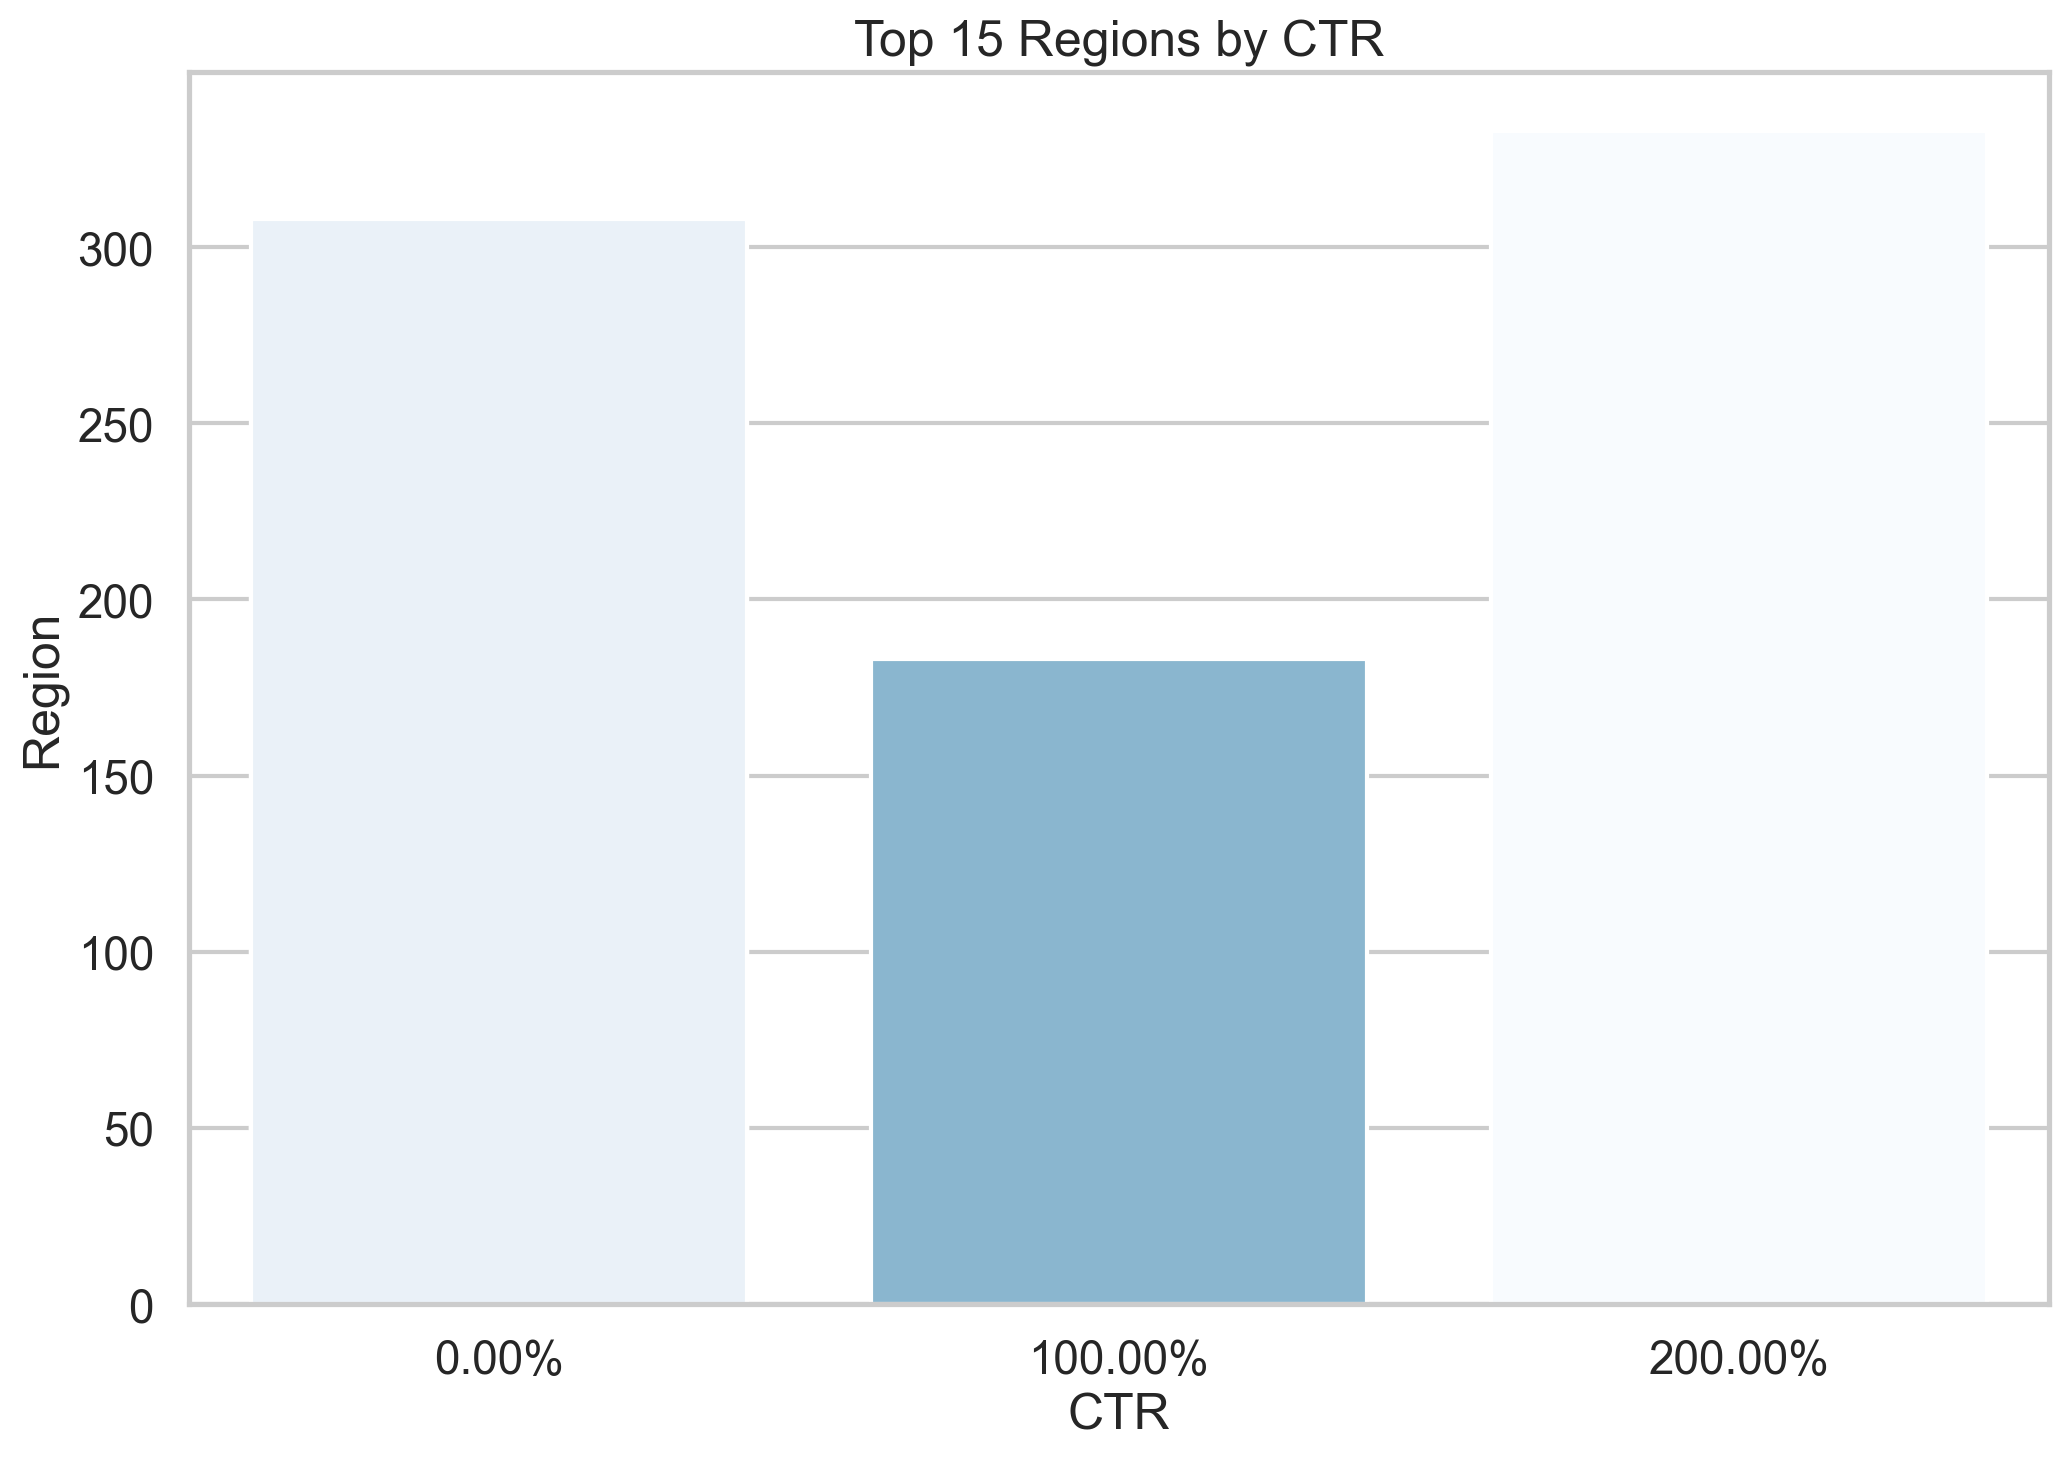
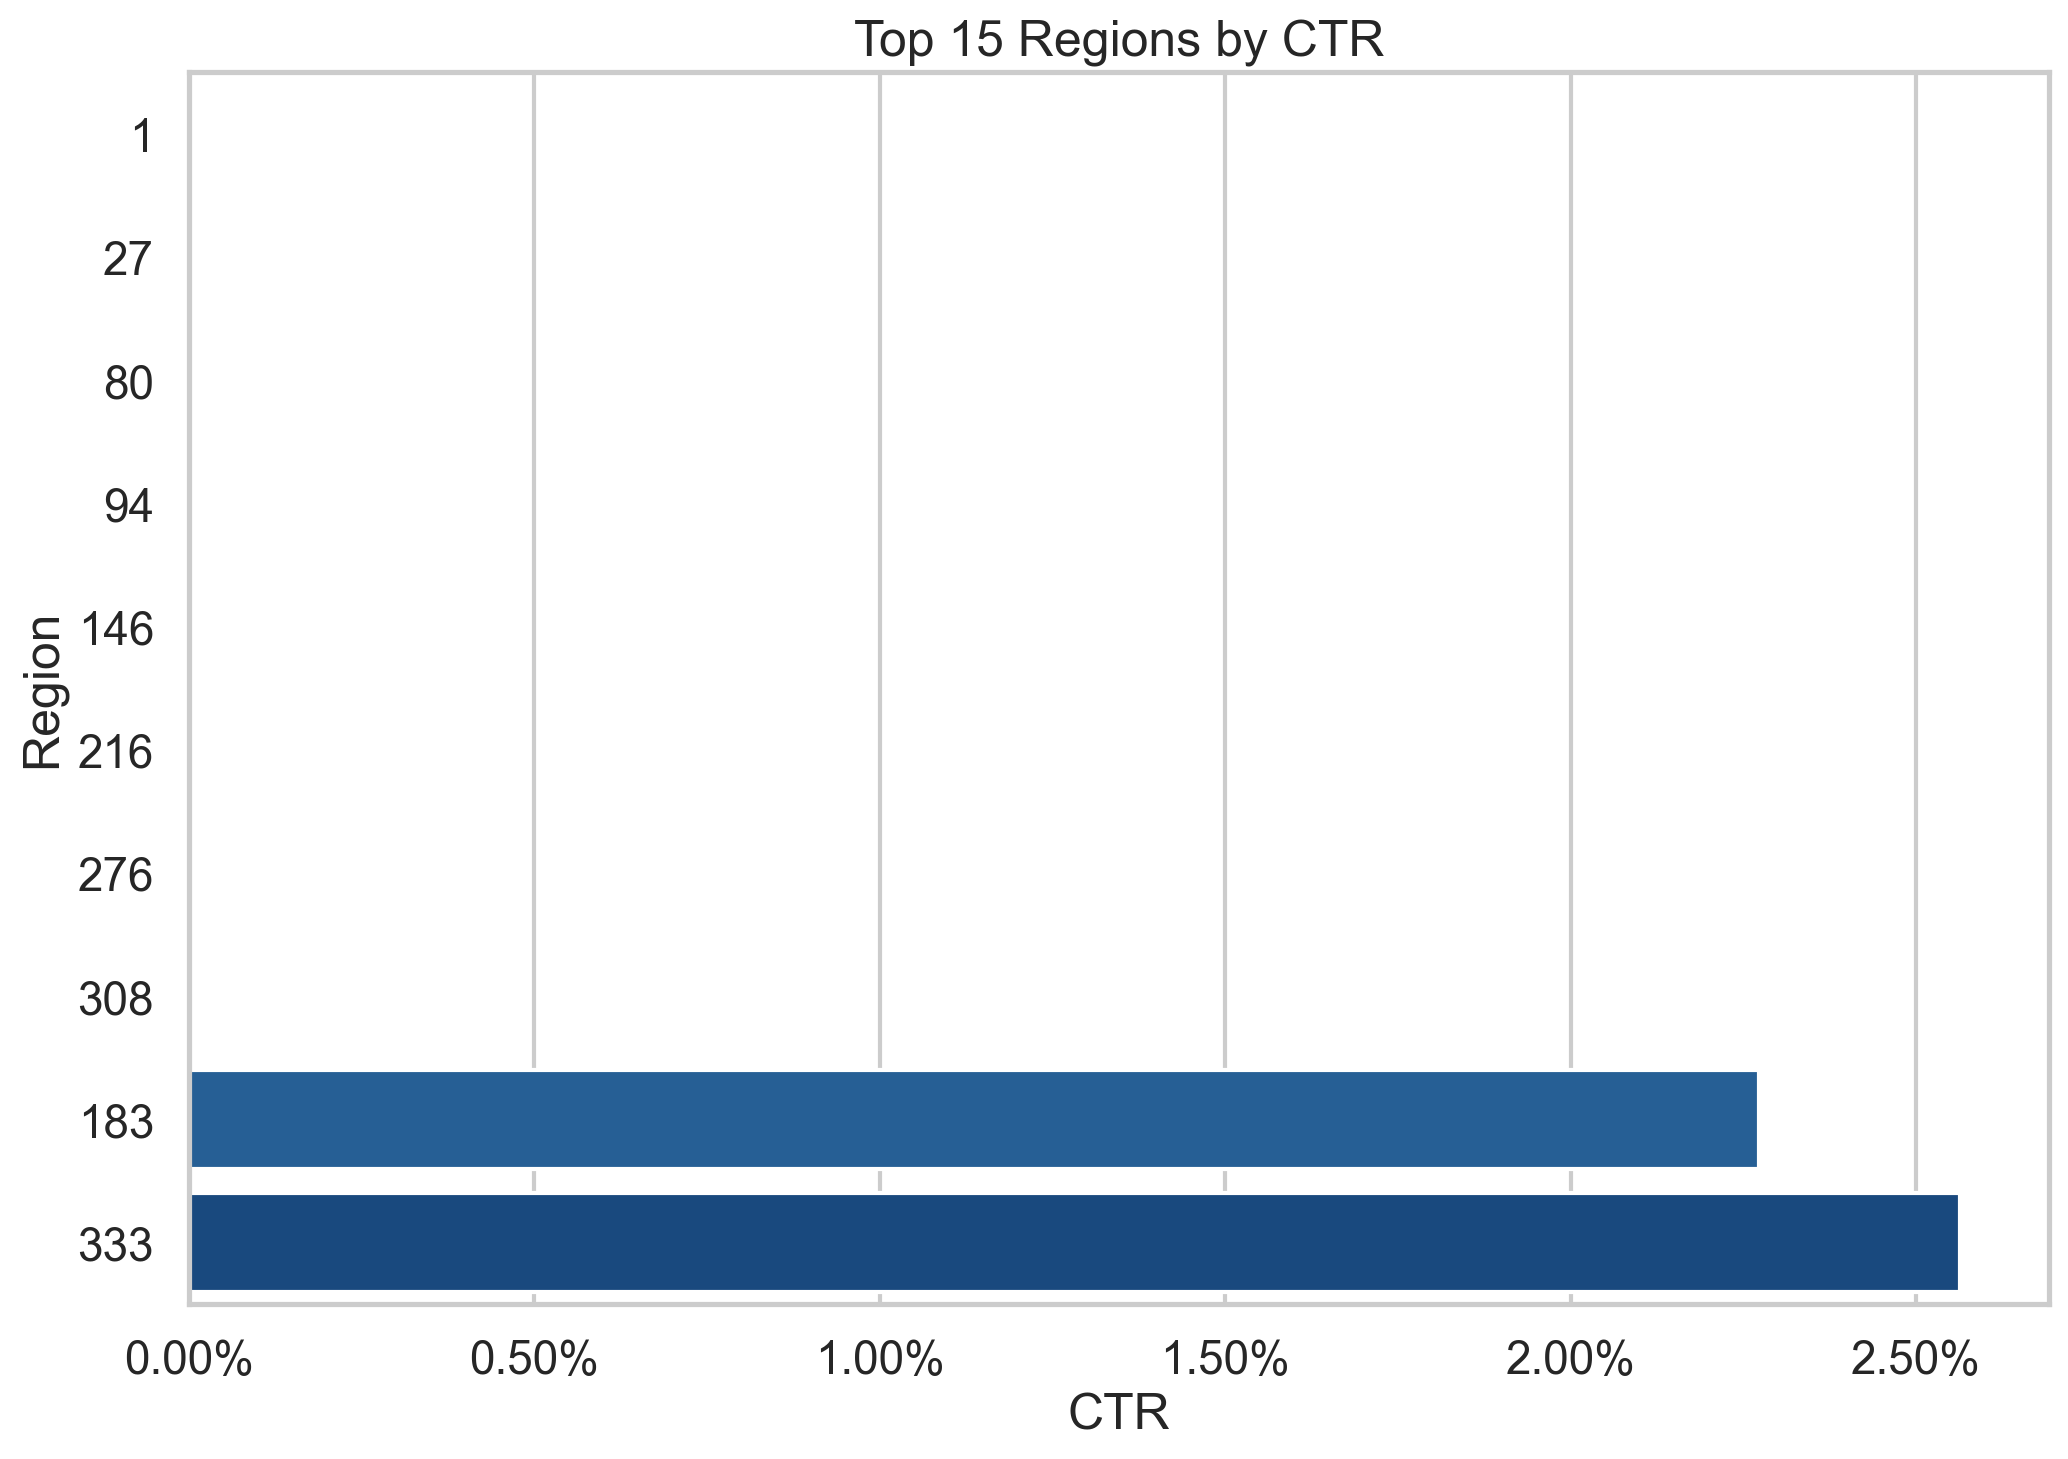
Fix region CTR categorical labels; remove CTR-by-hour chart and hour_summary output
Made-with: Cursor

diff --git a/src/ipinyou_analysis/plotting.py b/src/ipinyou_analysis/plotting.py
@@ -20,22 +20,26 @@ def _save(fig: plt.Figure, output_path: Path | str | None) -> None:
     fig.savefig(output_path, dpi=200, bbox_inches="tight")
 
 
-def plot_ctr_by_hour(summary: pd.DataFrame, output_path: Path | str | None = None) -> plt.Figure:
-    fig, ax = plt.subplots(figsize=(12, 6))
-    sns.lineplot(data=summary, x="hour", y="ctr", marker="o", ax=ax, color="#2563eb")
-    ax.set_title("CTR by Hour")
-    ax.set_xlabel("Hour of Day")
-    ax.set_ylabel("Click-Through Rate")
-    ax.yaxis.set_major_formatter(lambda value, _: f"{value:.2%}")
-    _save(fig, output_path)
-    return fig
-
-
 def plot_top_regions(summary: pd.DataFrame, output_path: Path | str | None = None, top_n: int = 15) -> plt.Figure:
     fig, ax = plt.subplots(figsize=(12, 8))
     ordered = summary.sort_values("clicks", ascending=False).head(top_n).copy()
-    ordered["region"] = ordered["region"].astype(str)
-    sns.barplot(data=ordered, x="ctr", y="region", hue="region", dodge=False, legend=False, ax=ax, palette="Blues_r")
+    # Seaborn treats numeric `y` as a continuous axis; region codes must be categorical strings.
+    if "city" in ordered.columns and ordered["region"].duplicated().any():
+        ordered["region_label"] = ordered["region"].astype(str).str.cat(ordered["city"].astype(str), sep=" · ")
+    else:
+        ordered["region_label"] = ordered["region"].astype(str)
+    order = ordered.sort_values("ctr", ascending=True)["region_label"].tolist()
+    sns.barplot(
+        data=ordered,
+        x="ctr",
+        y="region_label",
+        order=order,
+        hue="region_label",
+        dodge=False,
+        legend=False,
+        ax=ax,
+        palette="Blues_r",
+    )
     ax.set_title(f"Top {top_n} Regions by CTR")
     ax.set_xlabel("CTR")
     ax.set_ylabel("Region")

diff --git a/run_pipeline.py b/run_pipeline.py
@@ -23,7 +23,6 @@ from ipinyou_analysis.modeling import evaluate_models, train_ctr_models
 from ipinyou_analysis.plotting import (
     plot_bid_vs_payprice,
     plot_campaign_ecpc,
-    plot_ctr_by_hour,
     plot_top_regions,
     plot_win_rate_by_exchange,
 )
@@ -82,16 +81,13 @@ def write_summaries_and_plots(df: pd.DataFrame, processed_dir: Path, figure_dir:
     profile_dataset(df).to_csv(processed_dir / "dataset_profile.csv", index=False)
 
     campaign_summary = campaign_performance_summary(df)
-    hour_summary = segment_performance_summary(df, ["hour"])
     region_summary = segment_performance_summary(df, ["region"])
     exchange_summary = segment_performance_summary(df, ["adexchange"])
 
     campaign_summary.to_csv(processed_dir / "campaign_summary.csv", index=False)
-    hour_summary.to_csv(processed_dir / "hour_summary.csv", index=False)
     region_summary.to_csv(processed_dir / "region_summary.csv", index=False)
     exchange_summary.to_csv(processed_dir / "exchange_summary.csv", index=False)
 
-    plot_ctr_by_hour(hour_summary, figure_dir / "ctr_by_hour.png")
     plot_top_regions(region_summary, figure_dir / "top_regions_ctr.png")
     plot_campaign_ecpc(campaign_summary, figure_dir / "campaign_ecpc.png")
     plot_bid_vs_payprice(df, figure_dir / "bid_vs_payprice.png")

diff --git a/README.md b/README.md
@@ -59,12 +59,6 @@ These seasons are the default focus because they include `advertiser` IDs and `u
 
 The pipeline saves figures under `outputs/figures/`. Below are example outputs from a pipeline run; each chart highlights a different slice of performance.
 
-### CTR by hour
-
-A line chart of CTR across hours of the day. I use it to see when users are most likely to click and how intraday patterns compare.
-
-![CTR by hour](docs/readme/ctr_by_hour.png)
-
 ### Region CTR comparison
 
 Horizontal bars of CTR for the top regions (by click volume). I use it to spot geographic pockets of strong or weak engagement.
